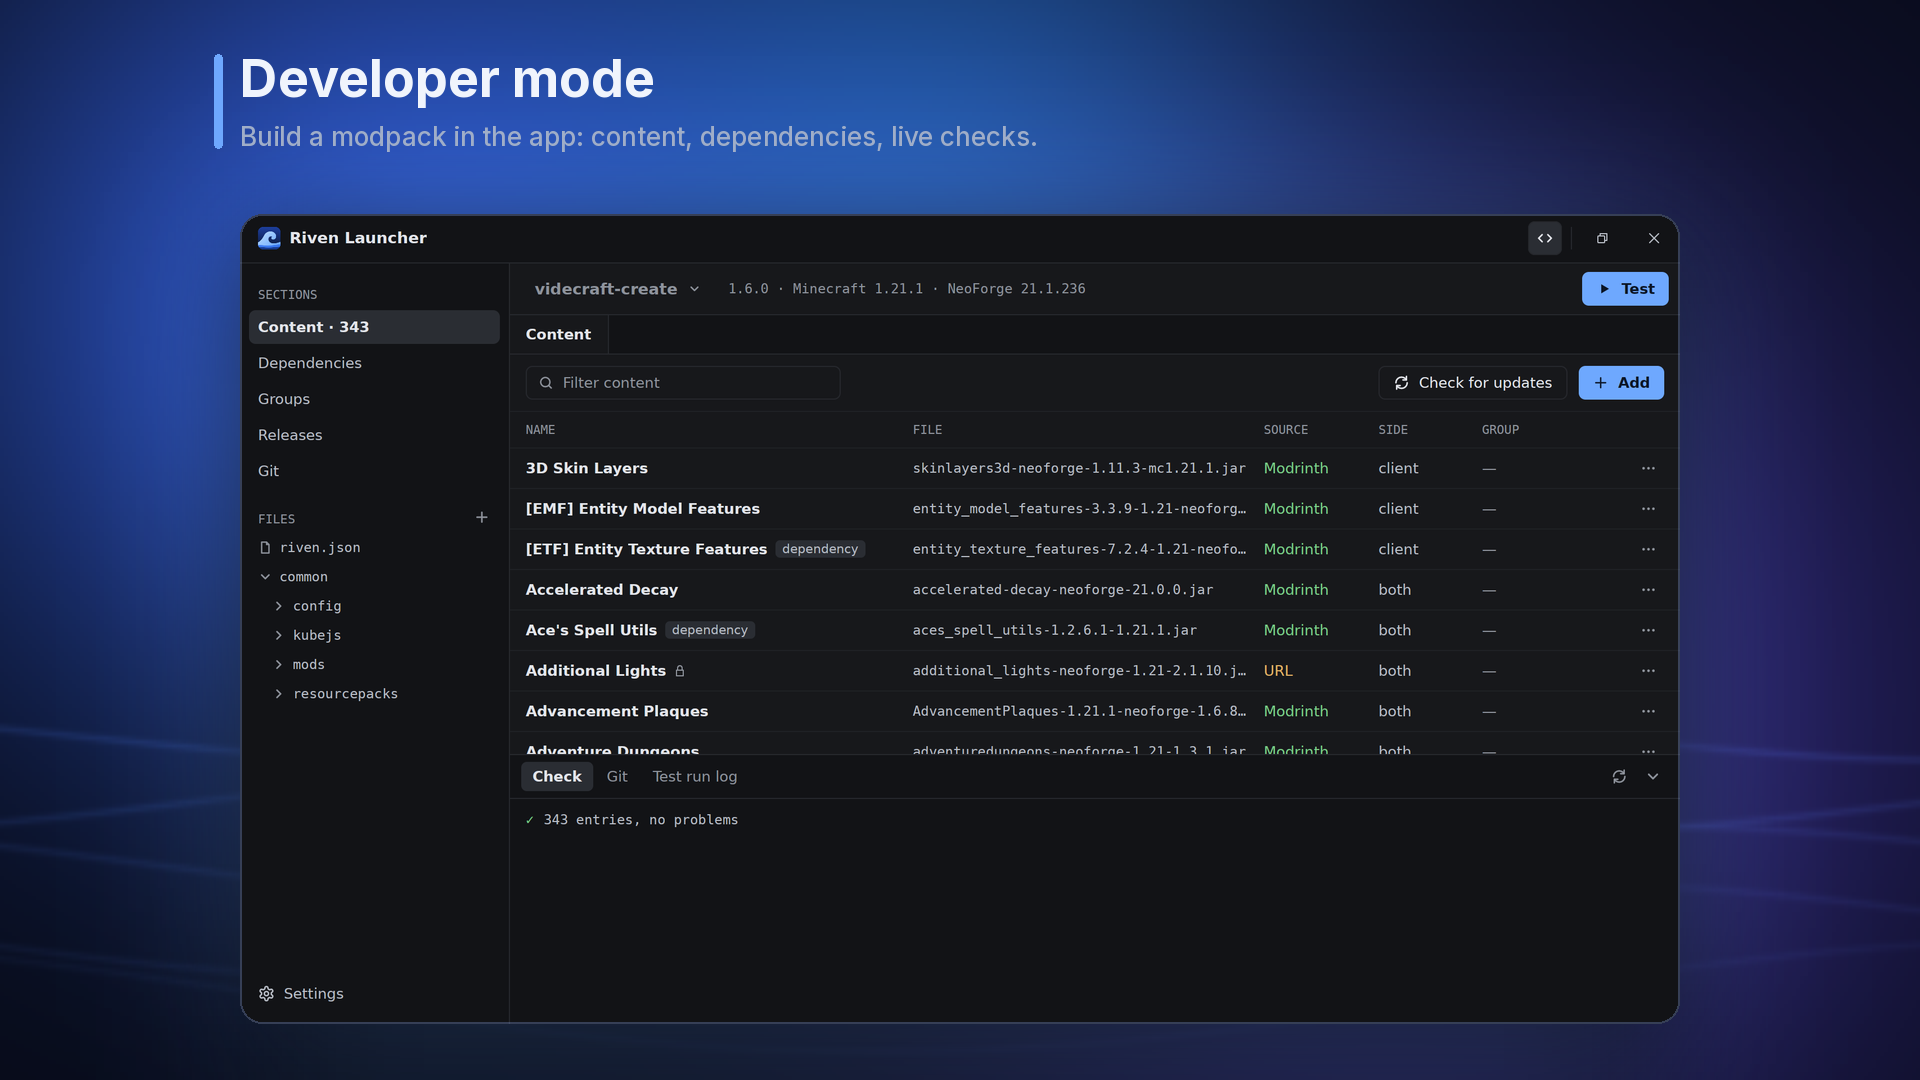
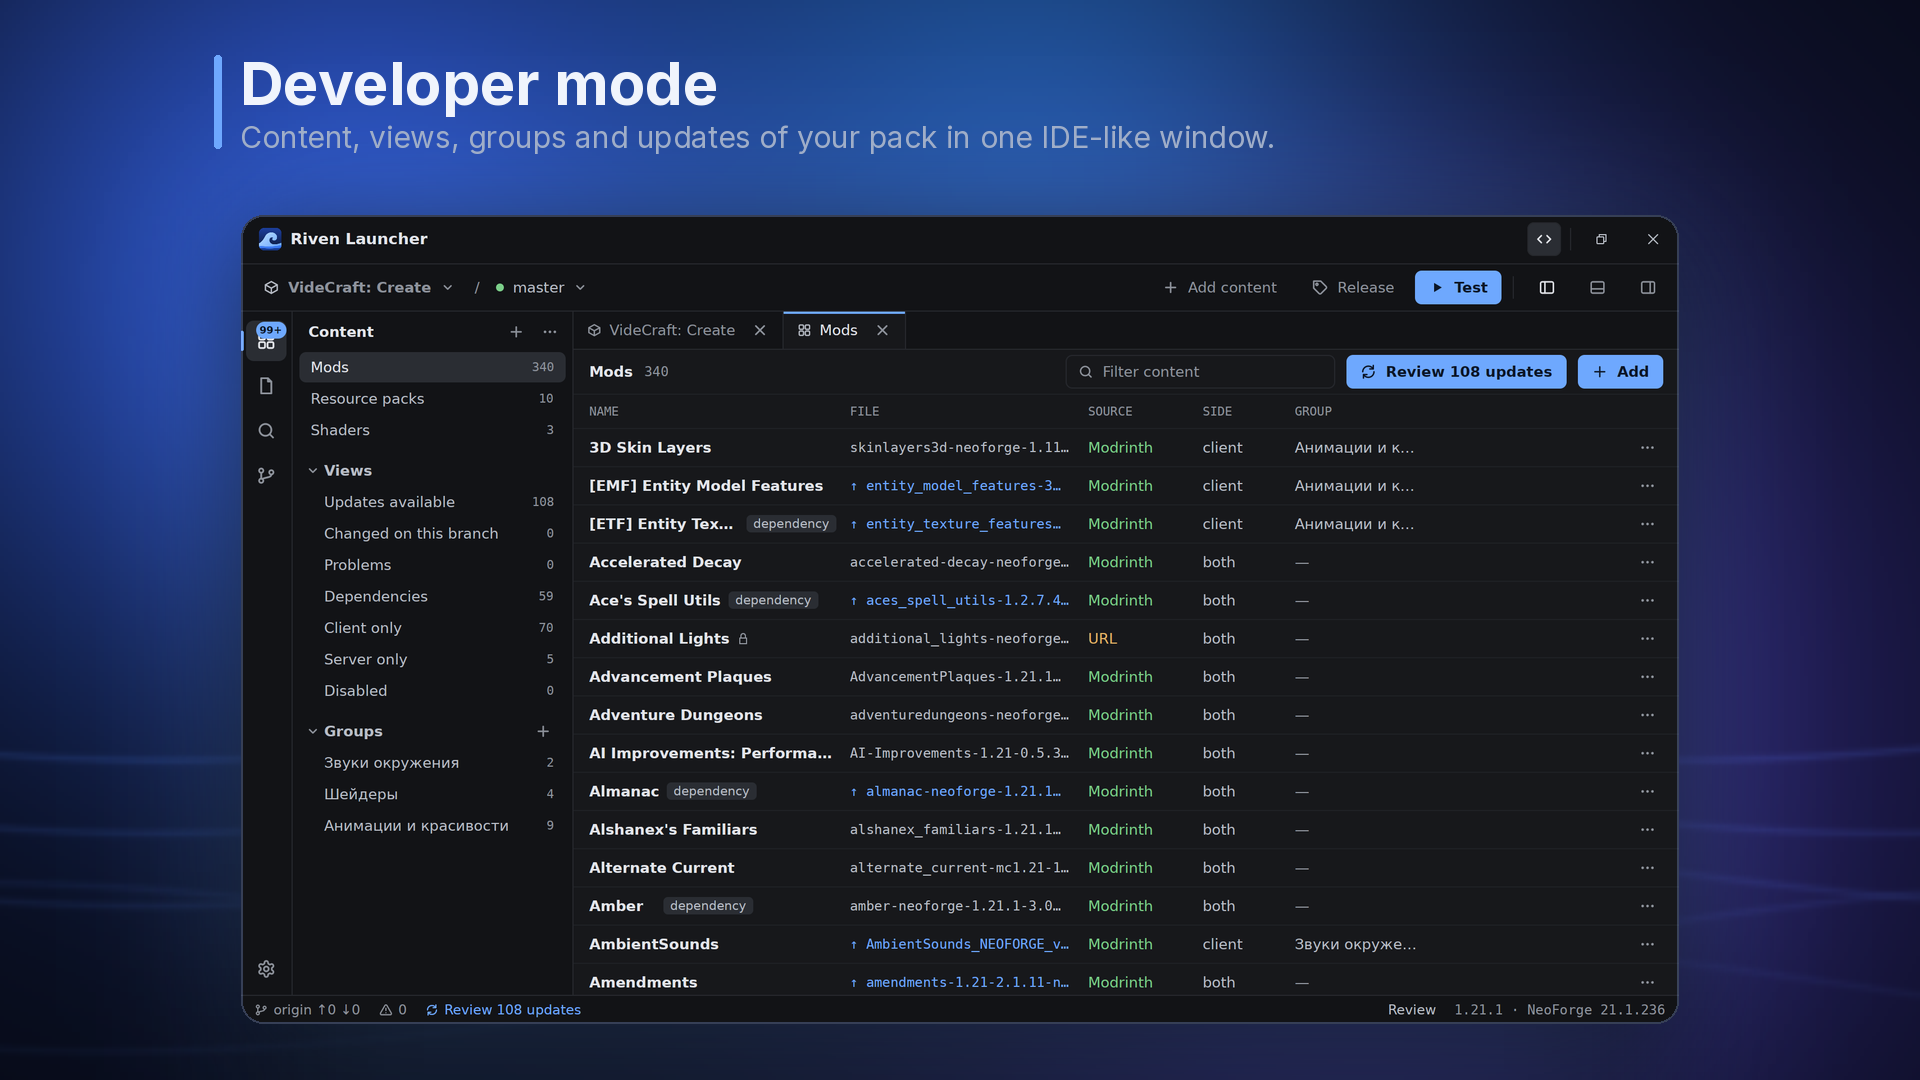
docs: refresh readme showcase

diff --git a/README.md b/README.md
@@ -13,11 +13,18 @@ A native Minecraft launcher and modpack toolkit in pure Rust — install, update
 
 ## 🖼 Showcase
 
+<details>
+<summary>Screenshots</summary>
+
 ![Instances and mods](.github/showcase/showcase-instance.png)
 
 ![Developer mode](.github/showcase/showcase-developer.png)
 
 ![Config editor](.github/showcase/showcase-editor.png)
+
+![Releases](.github/showcase/showcase-releases.png)
+
+</details>
 
 ## ✨ Features
 
